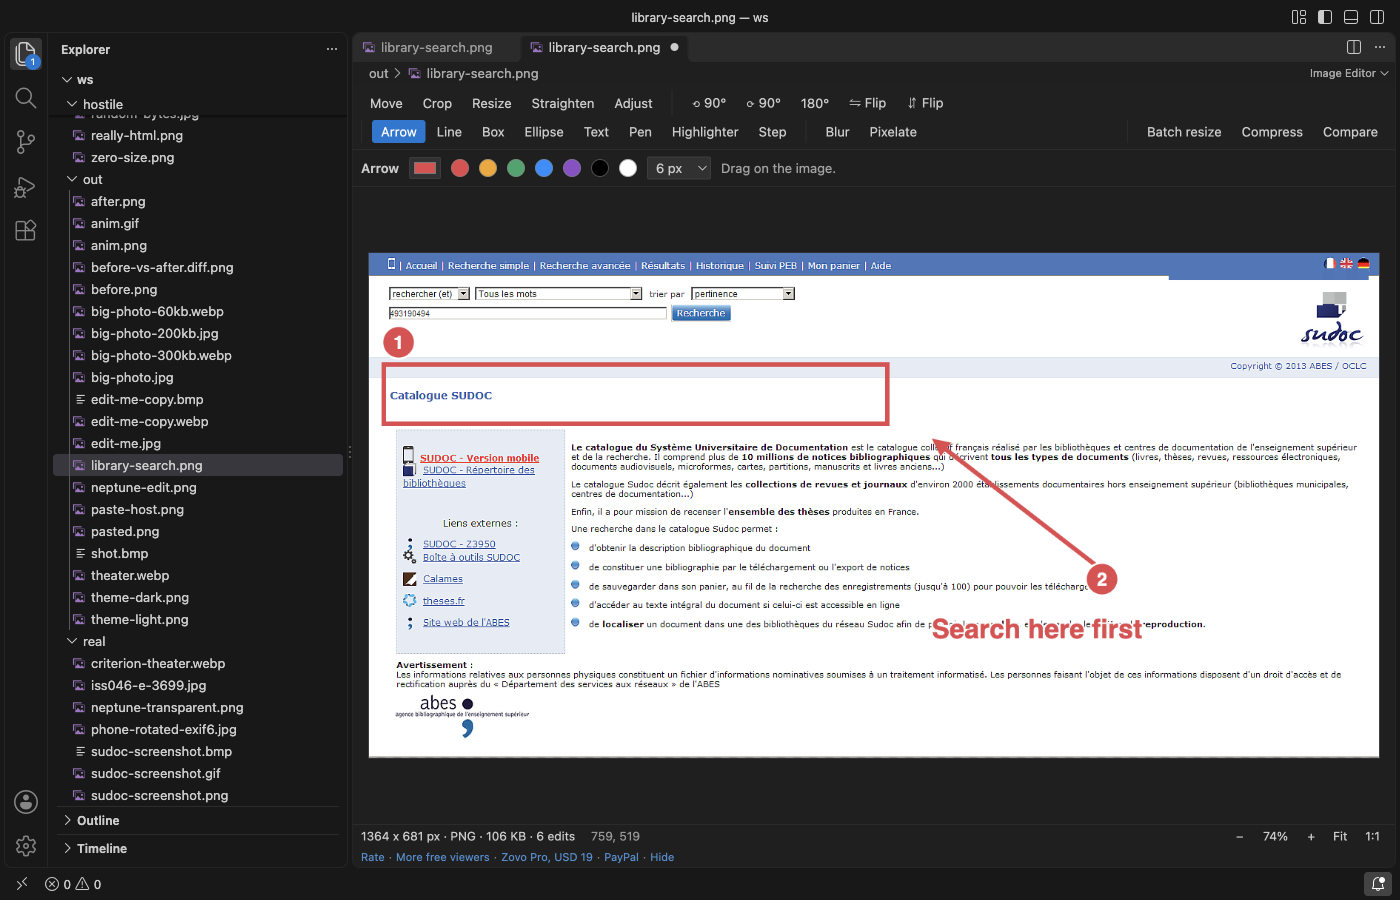
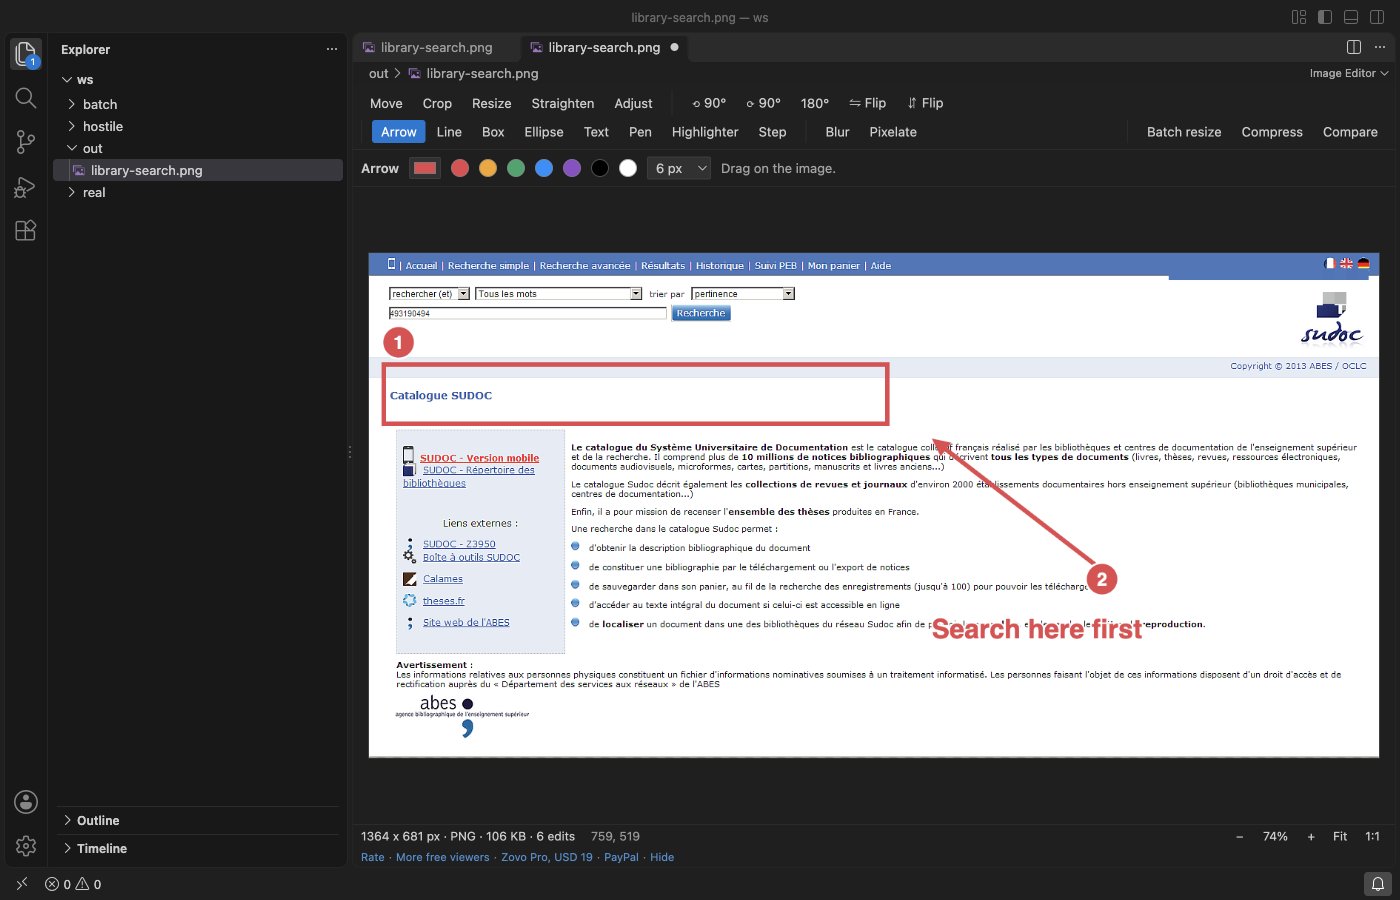
Keep the webview reference for the dispose handler; README screenshots from the real-app gate

Changed region(s): [[0.0307, 0.0933, 0.2457, 0.9022], [0.4607, 0.0, 0.5221, 0.0311], [0.9214, 0.0, 0.9521, 0.0311]]

diff --git a/src/extension.js b/src/extension.js
@@ -143,7 +143,8 @@ class Provider {
     doc.webview = panel.webview;
     if (panel.active) activeDoc = doc;
     panel.onDidChangeViewState(() => { if (panel.active) activeDoc = doc; else if (activeDoc === doc && !panel.visible) activeDoc = null; });
-    panel.onDidDispose(() => { if (doc.webview === panel.webview) doc.webview = null; if (activeDoc === doc) activeDoc = null; });
+    const wv = panel.webview; // panel.webview throws once the panel is disposed, so keep the reference
+    panel.onDidDispose(() => { if (doc.webview === wv) doc.webview = null; if (activeDoc === doc) activeDoc = null; });
     panel.webview.onDidReceiveMessage((m) => this.onMessage(doc, m).then(undefined, (e) => vscode.window.showWarningMessage(String(e && e.message || e))));
   }
   async onMessage(doc, m) {
